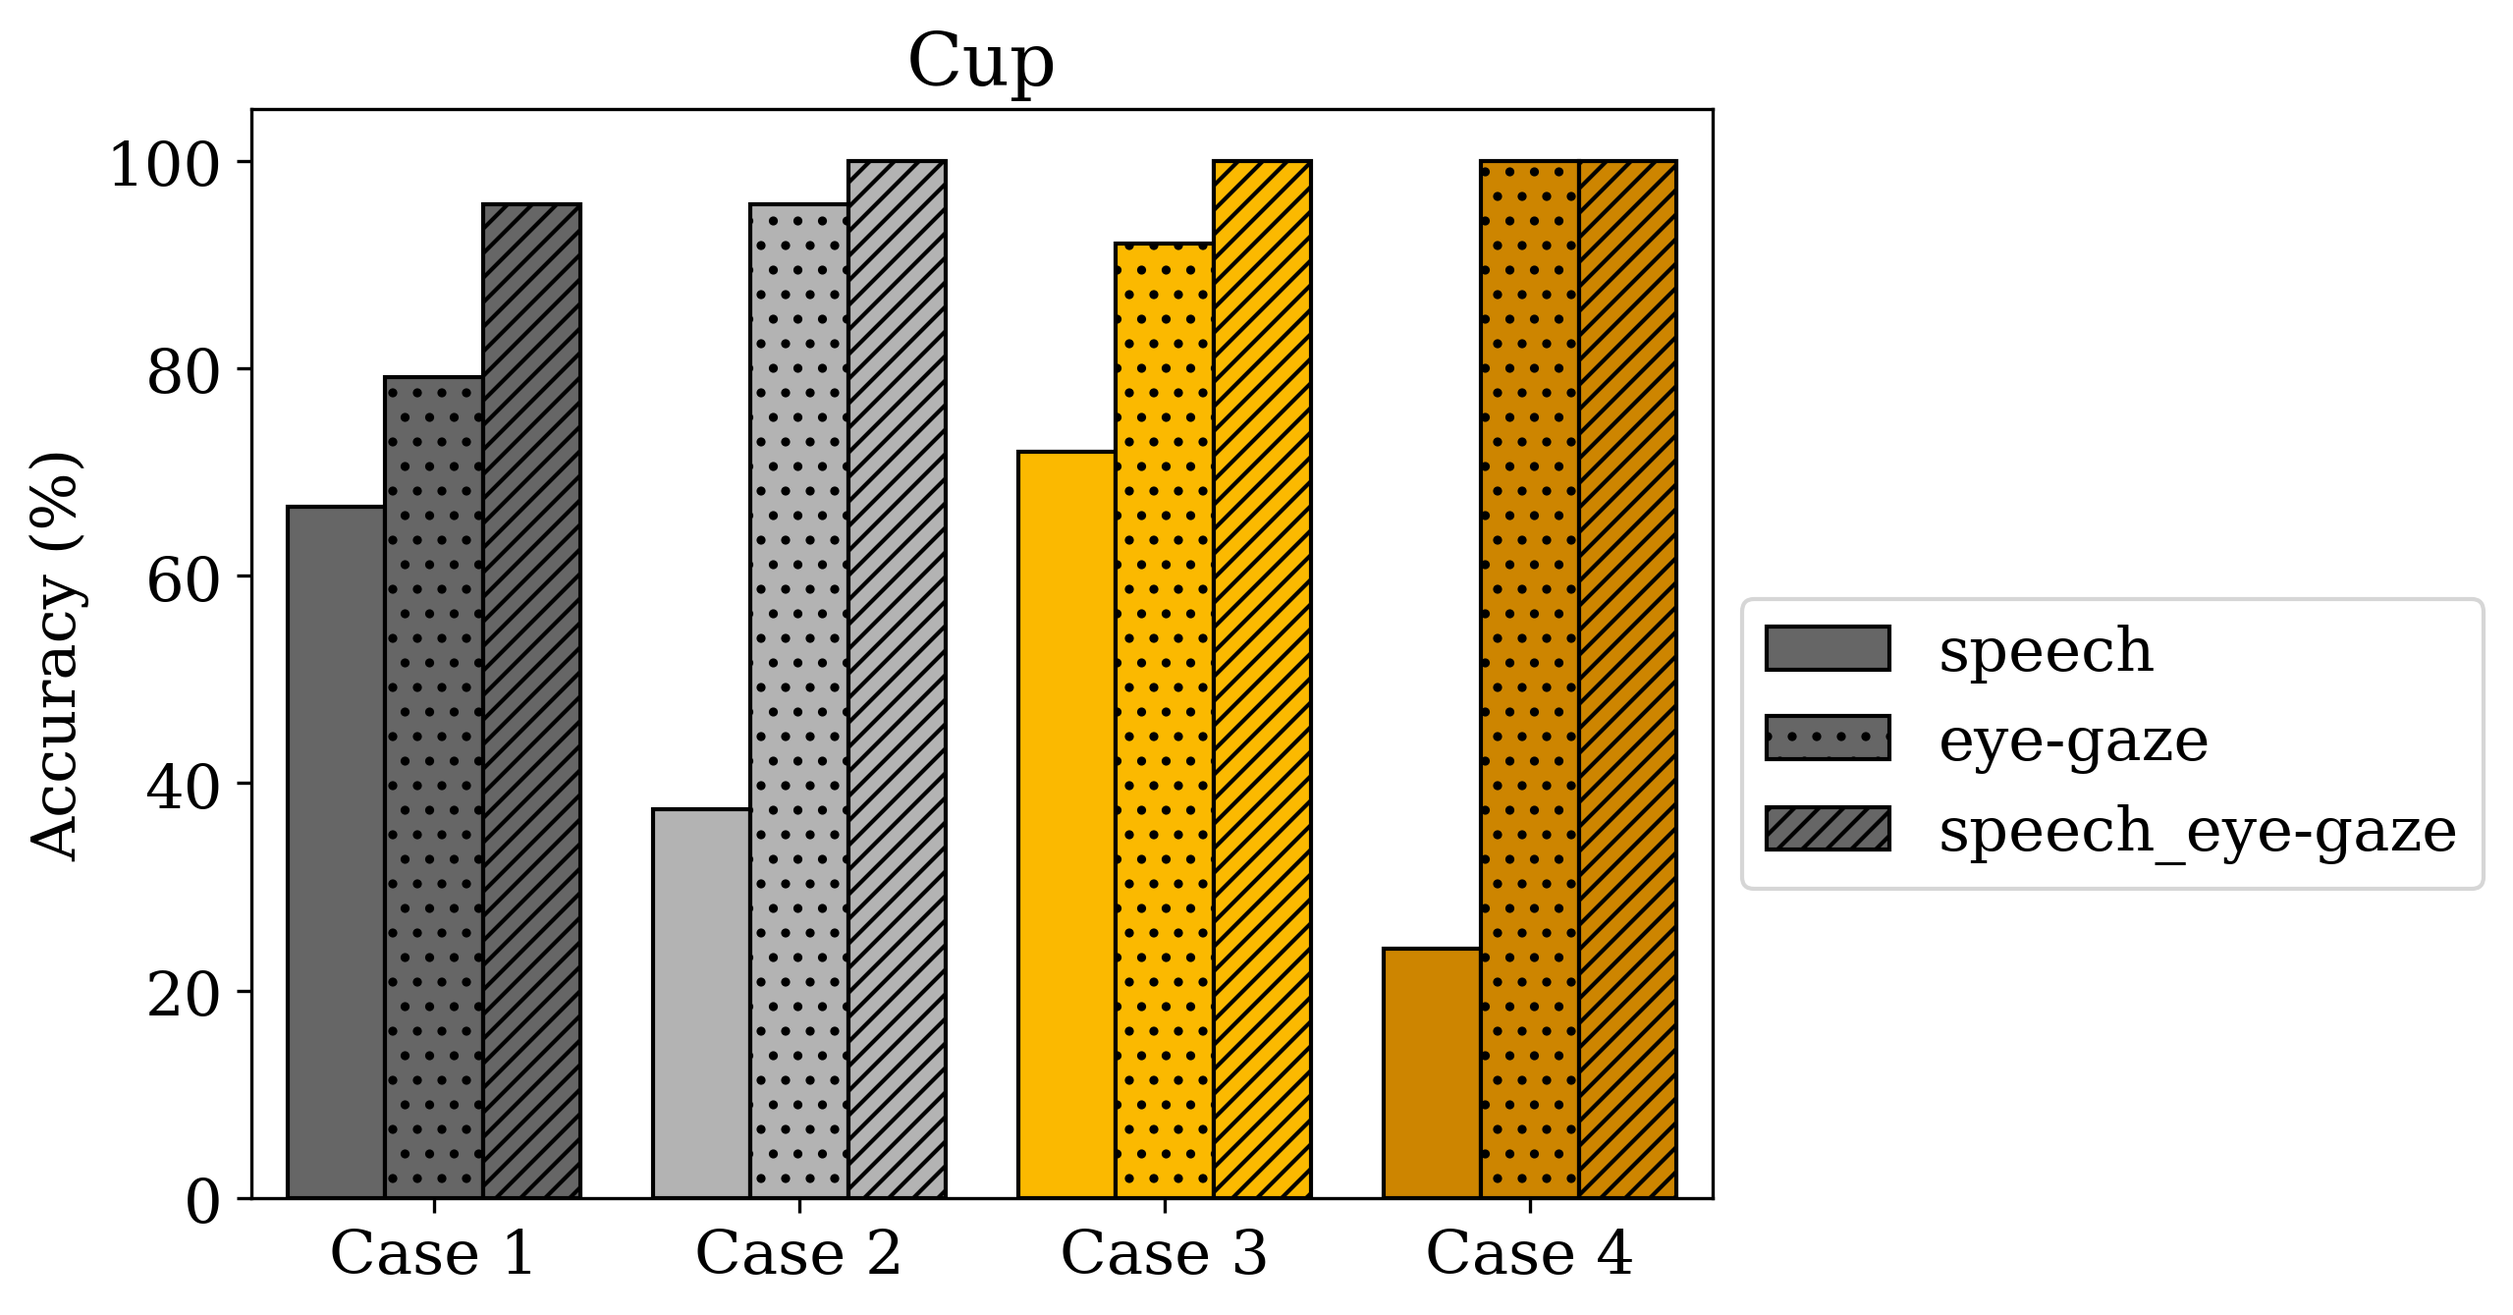
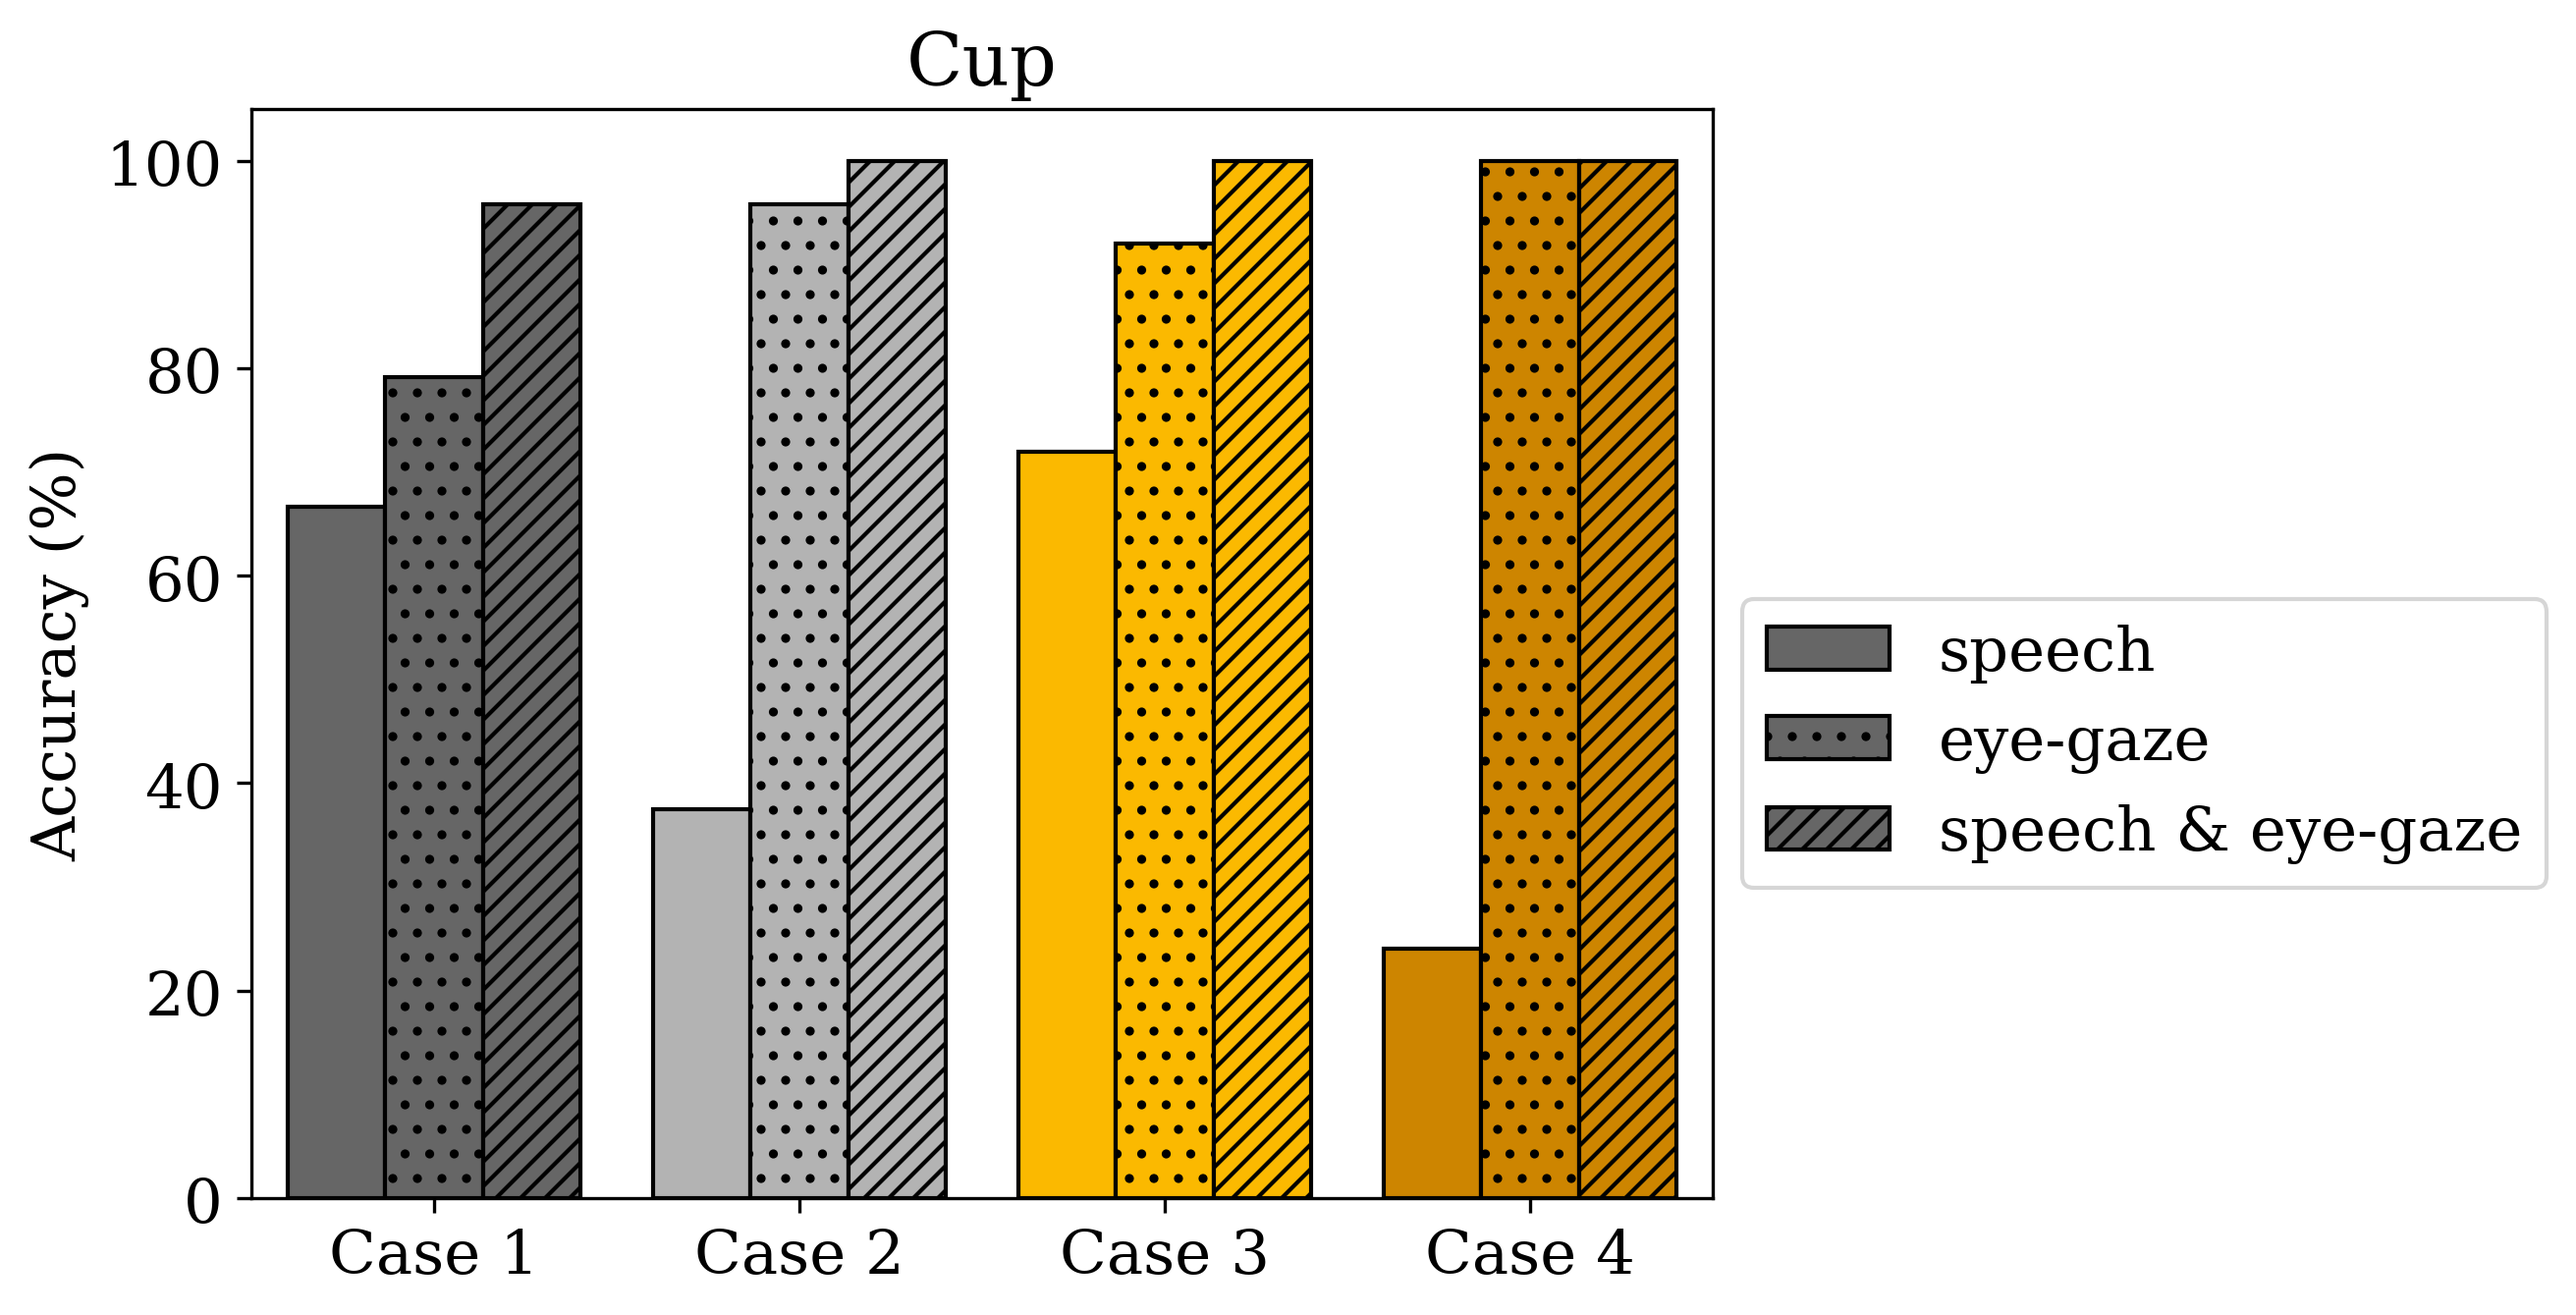
Updated prediction acc lengends to speech & eye-gaze

diff --git a/plot_data.py b/plot_data.py
@@ -70,6 +70,7 @@ def plot_graph(graph_name):
     
     cases = ['Case 1', 'Case 2', 'Case 3', 'Case 4'] # 'Xocc_Xdup','Xocc_dup','occ_Xdup', 'occ_dup'
     methods = ['speech','eye-gaze', 'speech_eye-gaze'] #{'speech':[],'eye-gaze': [], 'speech_eye-gaze':[]}
+    method_title = {'speech':'speech','eye-gaze':'eye-gaze', 'speech_eye-gaze': 'speech & eye-gaze'}
     objects = ['cup','orange', 'scissors']
     pred_acc = defaultdict(lambda: defaultdict(lambda: defaultdict(list))) 
     
@@ -109,75 +110,23 @@ def plot_graph(graph_name):
                                     speech_eye_gaze_result = 0                                                                            
                                 pred_acc[obj][case]['speech_eye-gaze'].append(speech_eye_gaze_result)
         
-        # # # Plot of each object                  
-        # titles = ['Cup', 'Orange', 'Scissors']     
-        # # for obj, title in zip(objects, titles):  
-        # obj = objects[2]
-        # title = titles[2]
-        # correct_data = []
-        # cases_data = []
-        # methods_data = []
-        # bar = None
-        # for i, method in enumerate(methods):                  
-        #     # method_acc = [np.mean(pred_acc[obj][case][method])*100 for case in cases]
-        #     dt = [pred_acc[obj][case][method] for case in cases]
-        #     correct_data.append(dt)
-        #     cases_data.append([[c]*len(dt[i])for i,c in enumerate(cases)])
-        #     methods_data.append([method]*len(sum(dt,[])))
-        #     # correct_data.append(method_acc)
-            
-        # #flatten
-        # correct_data = sum(sum(correct_data,[]),[])
-        # cases_data = sum(sum(cases_data,[]),[])
-        # methods_data = sum(methods_data,[])
-        # pred_acc_data = np.stack([cases_data, methods_data, np.array(correct_data)*100]).T   
-        # # data_cases = cases*
-        
-        # head = ['cases', 'methods', 'correct']
-        # pred_acc_data = pd.DataFrame(pred_acc_data, columns=head)
-        # pred_acc_data['correct'] = pred_acc_data.correct.astype(float)  
-
-        # g = sns.barplot(
-        #     data=pred_acc_data,#, kind="bar",
-        #     x="cases", y="correct", hue="methods"#,
-        #     , ci=None #height=8 , ci=None #"sd"  # palette=sns.color_palette(get_colors()) #alpha=.6,
-        # )
-                        
-        # bars = g.patches
-                    
-        # hatches = np.repeat([None, '..', '////'],4)
-        # # colors = np.repeat(get_colors().tolist(),4)
-        # colors = get_colors()
-        # dark_colors = darker_colors()
-        
-        # # for i, bar in enumerate(bars):
-        # #     bar.set_color(colors[i])
-        # i = 0
-        # for bar in bars:
-        #     print(i)
-        #     bar.set_color(colors[i])
-        #     bar.set_edgecolor('black') # dark_colors[i]''
-        #     bar.set_hatch(hatches[i])
-        #     i+=1        
-                        
-        # g.set(xlabel = "", ylabel = "Accuracy (%)", title=title)
-        # g.legend(bbox_to_anchor=(1.02, 0.55), loc='upper left', borderaxespad=0)
-        # plt.savefig('prediction_acc_'+obj+'.png',dpi=300,bbox_inches="tight")  
-            
-            
-        ## Plot average of all objects
+        # # Plot of each object                  
+        titles = ['Cup', 'Orange', 'Scissors']     
+        # for obj, title in zip(objects, titles):  
+        obj = objects[2]
+        title = titles[2]
         correct_data = []
         cases_data = []
         methods_data = []
-        for obj in objects:  
-            for i, method in enumerate(methods):                  
-                # method_acc = [np.mean(pred_acc[obj][case][method])*100 for case in cases]
-                dt = [pred_acc[obj][case][method] for case in cases]
-                correct_data.append(dt)
-                cases_data.append([[c]*len(dt[i])for i,c in enumerate(cases)])
-                methods_data.append([method]*len(sum(dt,[])))
-                # correct_data.append(method_acc)
-                
+        bar = None
+        for i, method in enumerate(methods):                  
+            # method_acc = [np.mean(pred_acc[obj][case][method])*100 for case in cases]
+            dt = [pred_acc[obj][case][method] for case in cases]
+            correct_data.append(dt)
+            cases_data.append([[c]*len(dt[i])for i,c in enumerate(cases)])
+            methods_data.append([method_title[method]]*len(sum(dt,[])))
+            # correct_data.append(method_acc)
+            
         #flatten
         correct_data = sum(sum(correct_data,[]),[])
         cases_data = sum(sum(cases_data,[]),[])
@@ -194,23 +143,75 @@ def plot_graph(graph_name):
             x="cases", y="correct", hue="methods"#,
             , ci=None #height=8 , ci=None #"sd"  # palette=sns.color_palette(get_colors()) #alpha=.6,
         )
-        
+                        
         bars = g.patches
                     
         hatches = np.repeat([None, '..', '////'],4)
+        # colors = np.repeat(get_colors().tolist(),4)
         colors = get_colors()
         dark_colors = darker_colors()
         
-        for i, bar in enumerate(bars):
+        # for i, bar in enumerate(bars):
+        #     bar.set_color(colors[i])
+        i = 0
+        for bar in bars:
+            print(i)
             bar.set_color(colors[i])
             bar.set_edgecolor('black') # dark_colors[i]''
             bar.set_hatch(hatches[i])
+            i+=1        
+                        
+        g.set(xlabel = "", ylabel = "Accuracy (%)", title=title)
+        g.legend(bbox_to_anchor=(1.02, 0.55), loc='upper left', borderaxespad=0)
+        plt.savefig('prediction_acc_'+obj+'.png',dpi=300,bbox_inches="tight")  
+            
+            
+        # ## Plot average of all objects
+        # correct_data = []
+        # cases_data = []
+        # methods_data = []
+        # for obj in objects:  
+        #     for i, method in enumerate(methods):                  
+        #         # method_acc = [np.mean(pred_acc[obj][case][method])*100 for case in cases]
+        #         dt = [pred_acc[obj][case][method] for case in cases]
+        #         correct_data.append(dt)
+        #         cases_data.append([[c]*len(dt[i])for i,c in enumerate(cases)])
+        #         methods_data.append([method_title[method]]*len(sum(dt,[])))
+        #         # correct_data.append(method_acc)
+                
+        # #flatten
+        # correct_data = sum(sum(correct_data,[]),[])
+        # cases_data = sum(sum(cases_data,[]),[])
+        # methods_data = sum(methods_data,[])
+        # pred_acc_data = np.stack([cases_data, methods_data, np.array(correct_data)*100]).T   
+        # # data_cases = cases*
+        
+        # head = ['cases', 'methods', 'correct']
+        # pred_acc_data = pd.DataFrame(pred_acc_data, columns=head)
+        # pred_acc_data['correct'] = pred_acc_data.correct.astype(float)  
+
+        # g = sns.barplot(
+        #     data=pred_acc_data,#, kind="bar",
+        #     x="cases", y="correct", hue="methods"#,
+        #     , ci=None #height=8 , ci=None #"sd"  # palette=sns.color_palette(get_colors()) #alpha=.6,
+        # )
+        
+        # bars = g.patches
+                    
+        # hatches = np.repeat([None, '..', '////'],4)
+        # colors = get_colors()
+        # dark_colors = darker_colors()
+        
+        # for i, bar in enumerate(bars):
+        #     bar.set_color(colors[i])
+        #     bar.set_edgecolor('black') # dark_colors[i]''
+        #     bar.set_hatch(hatches[i])
     
                         
-        g.set(xlabel = "", ylabel = "Accuracy (%)", title="All objects")
-        g.legend(bbox_to_anchor=(1.02, 0.55), loc='upper left', borderaxespad=0)
+        # g.set(xlabel = "", ylabel = "Accuracy (%)", title="All objects")
+        # g.legend(bbox_to_anchor=(1.02, 0.55), loc='upper left', borderaxespad=0)
     
-        plt.savefig('prediction_acc_all.png',dpi=300,bbox_inches="tight")  
+        # plt.savefig('prediction_acc_all.png',dpi=300,bbox_inches="tight")  
         
 
         
@@ -306,7 +307,6 @@ def plot_graph(graph_name):
 
     ### Graph2: target gaze portion vs speech start time plot
     elif graph_name == "target_gaze_portion":   
-        from palettable.colorbrewer.qualitative import Set2_7
      
         window_size = 0.1
         win_gaze_portion = {'Case 1':[], 'Case 2':[], 'Case 3':[], 'Case 4':[]} 
@@ -455,6 +455,6 @@ def plot_graph(graph_name):
         # plt.show()               
                                 
 set_style()
-graph_name = "target_gaze_portion" #"pred_acc" # "target_gaze_portion" # "nasa_tlx"
+graph_name = "nasa_tlx" #"pred_acc" # "target_gaze_portion" # "nasa_tlx"
 plot_graph(graph_name)
 
